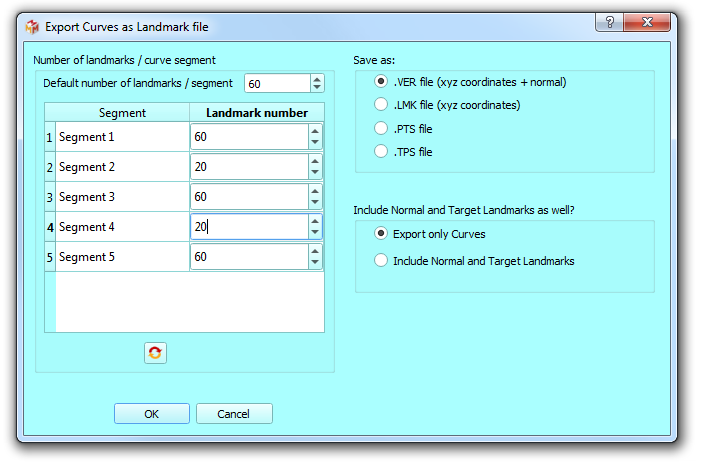
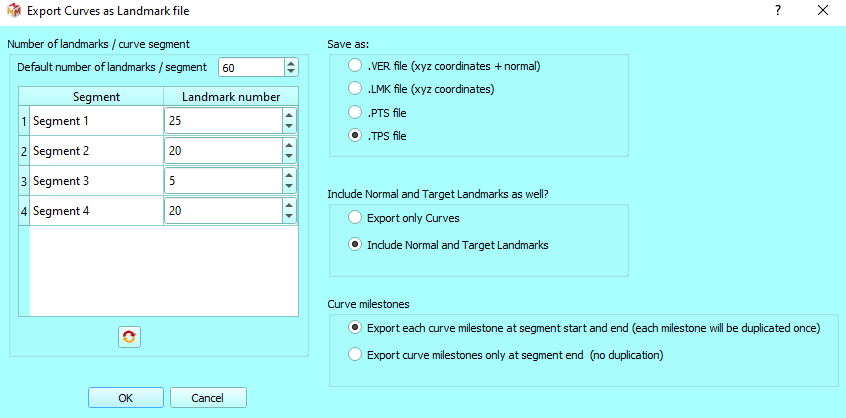
1.6.3

diff --git a/chapter_07_file.tex b/chapter_07_file.tex
@@ -383,11 +383,11 @@ Each curve \textbf{segment} is saved as a number of
 equidistant landmarks.\\
 Be aware that there are two ways to define curve \textbf{segments} in MorphoDig : \\
 - by setting curve node "starting points" , in order to create \textbf{independent} curve segments (see section \ref{section_curve_segment1} p.\pageref{section_curve_segment1}, and a practical example Fig. \ref{starting_node} p. \pageref{starting_node})\\
-- by setting curve node "milestones", in order to create \textbf{contiguous} curve segments (see section \ref{section_curve_segment2} p.\pageref{section_curve_segment2}, and a practical example Fig. \ref{curve_milestone} p. \pageref{curve_milestone}).
+- by setting curve node "milestones", in order to create \textbf{contiguous} curve segments (see section \ref{section_curve_segment2} p.\pageref{section_curve_segment2}, and a practical example Fig. \ref{curve_milestone} p. \pageref{curve_milestone}). Note that when exporting curves as equidistant semi-landmarks, it is possible to avoid curve milestone duplication. 
 \\
  You may also decide to save normal and target landmarks information inside the  output. This is useful when you need to use both type 1 landmarks (normal and target landmarks) and semi-landmards (3D curves) in Geometric Morphometric analyses. 
 
-In the example presented Fig. \ref{export_curves} p. \pageref{export_curves}, 5 segments have been digitized, and the default number of landmarks per segment is 60, but the user has chosen to export segments 2 and 4 using 20 equidistant landmarks instead.
+In the example presented Fig. \ref{export_curves} p. \pageref{export_curves}, 4 segments have been digitized, and the default number of landmarks per segment is 60, but the user has chosen to export segments using 25, 20, 5 and 20 equidistant landmarks instead.
 
 %\end{minipage}  
 % \begin{minipage}{0.45\textwidth}\centering
